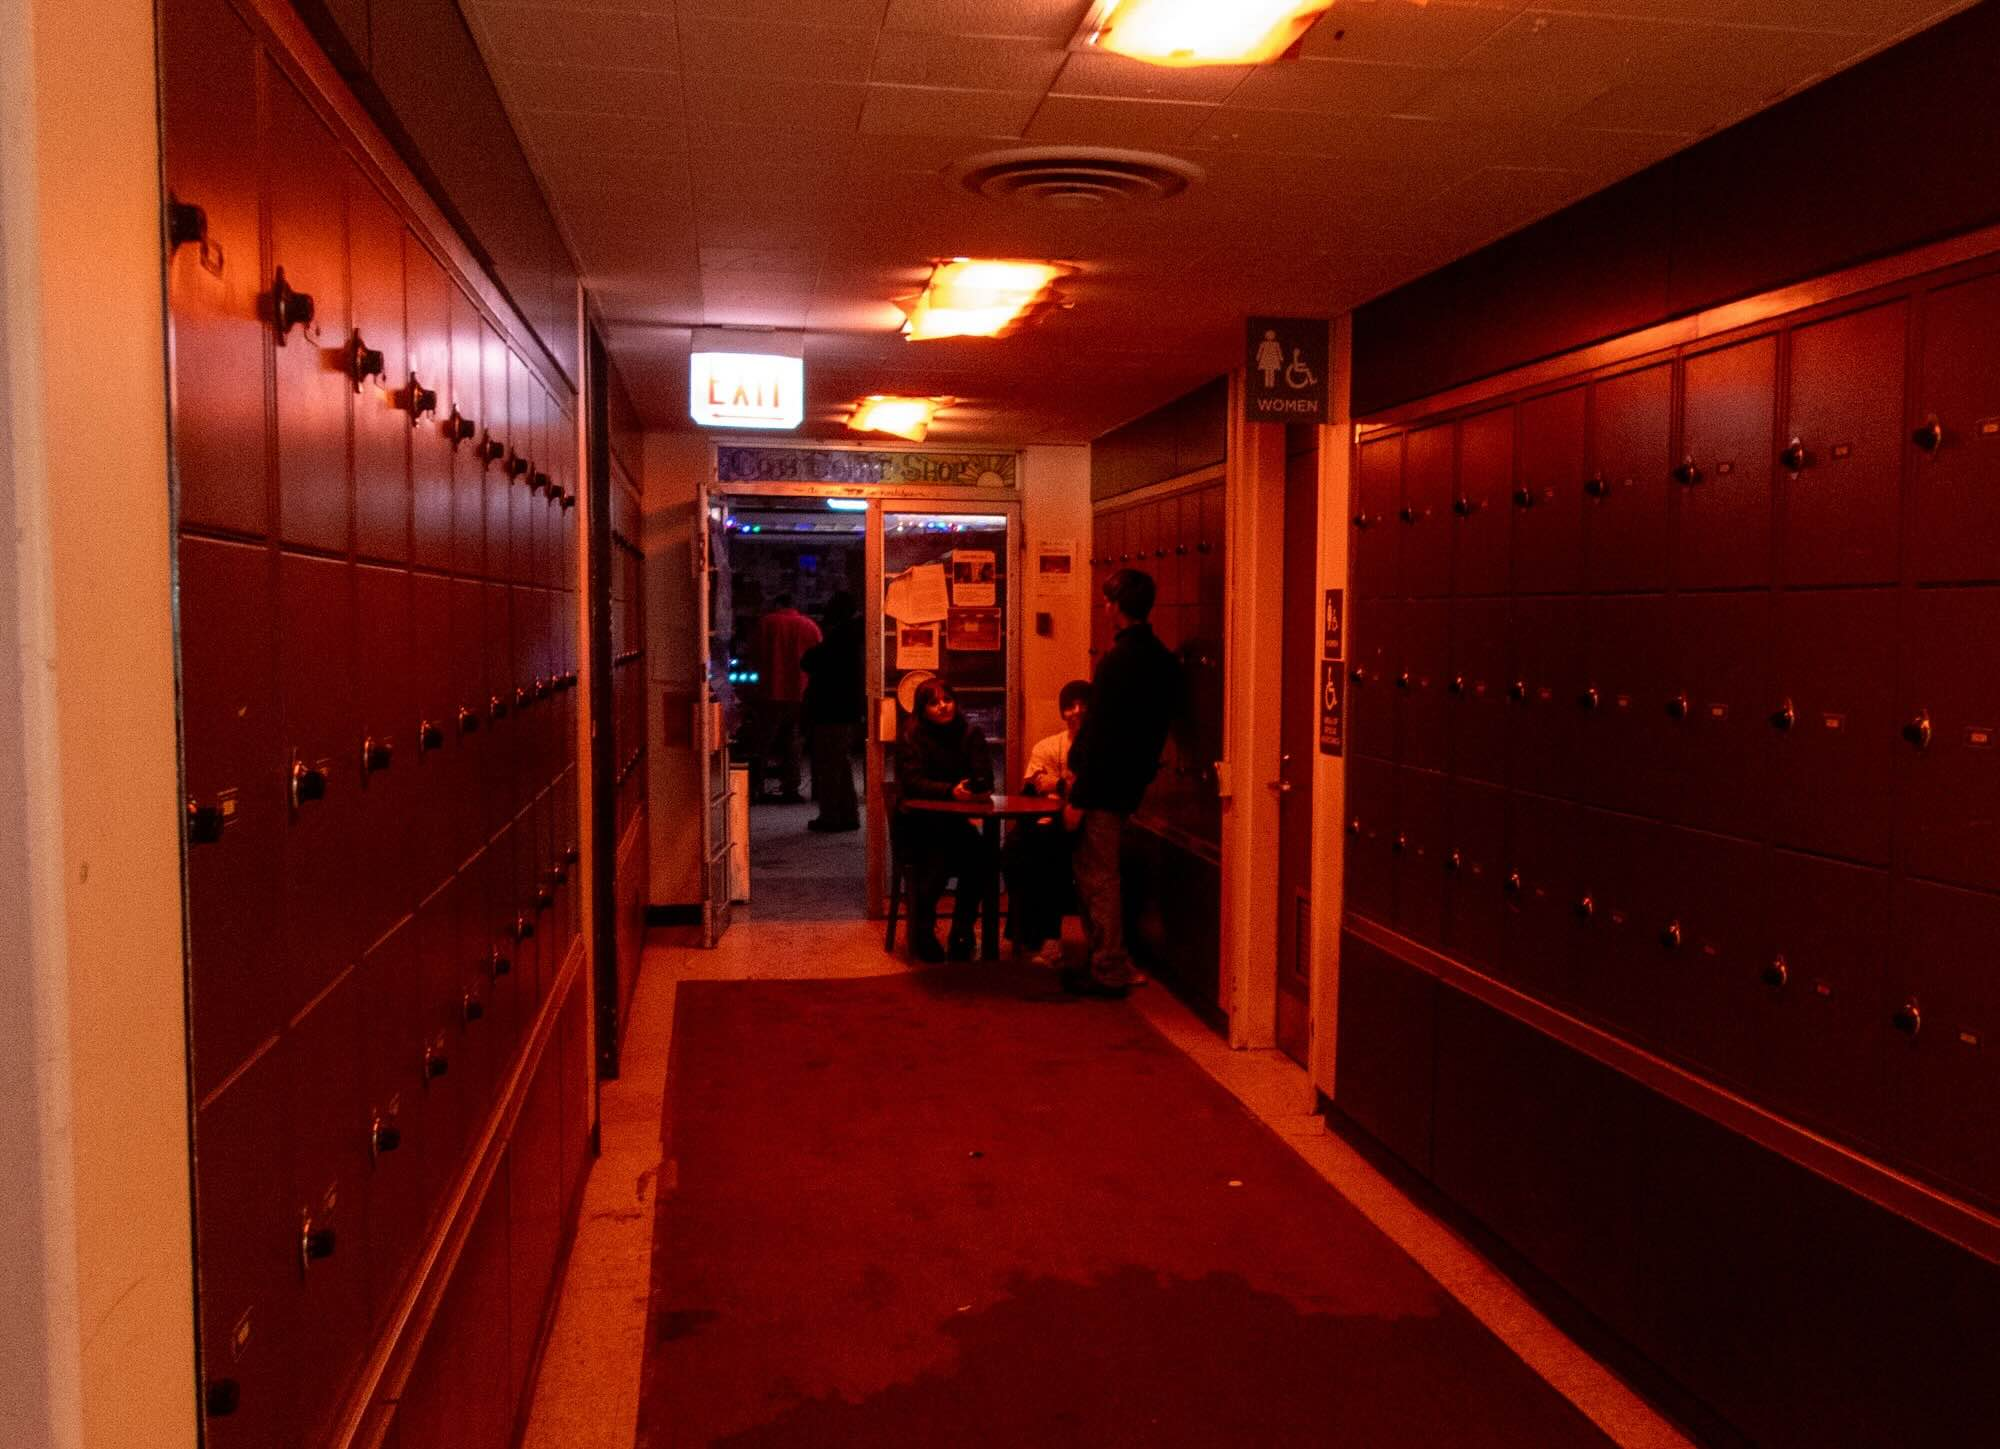
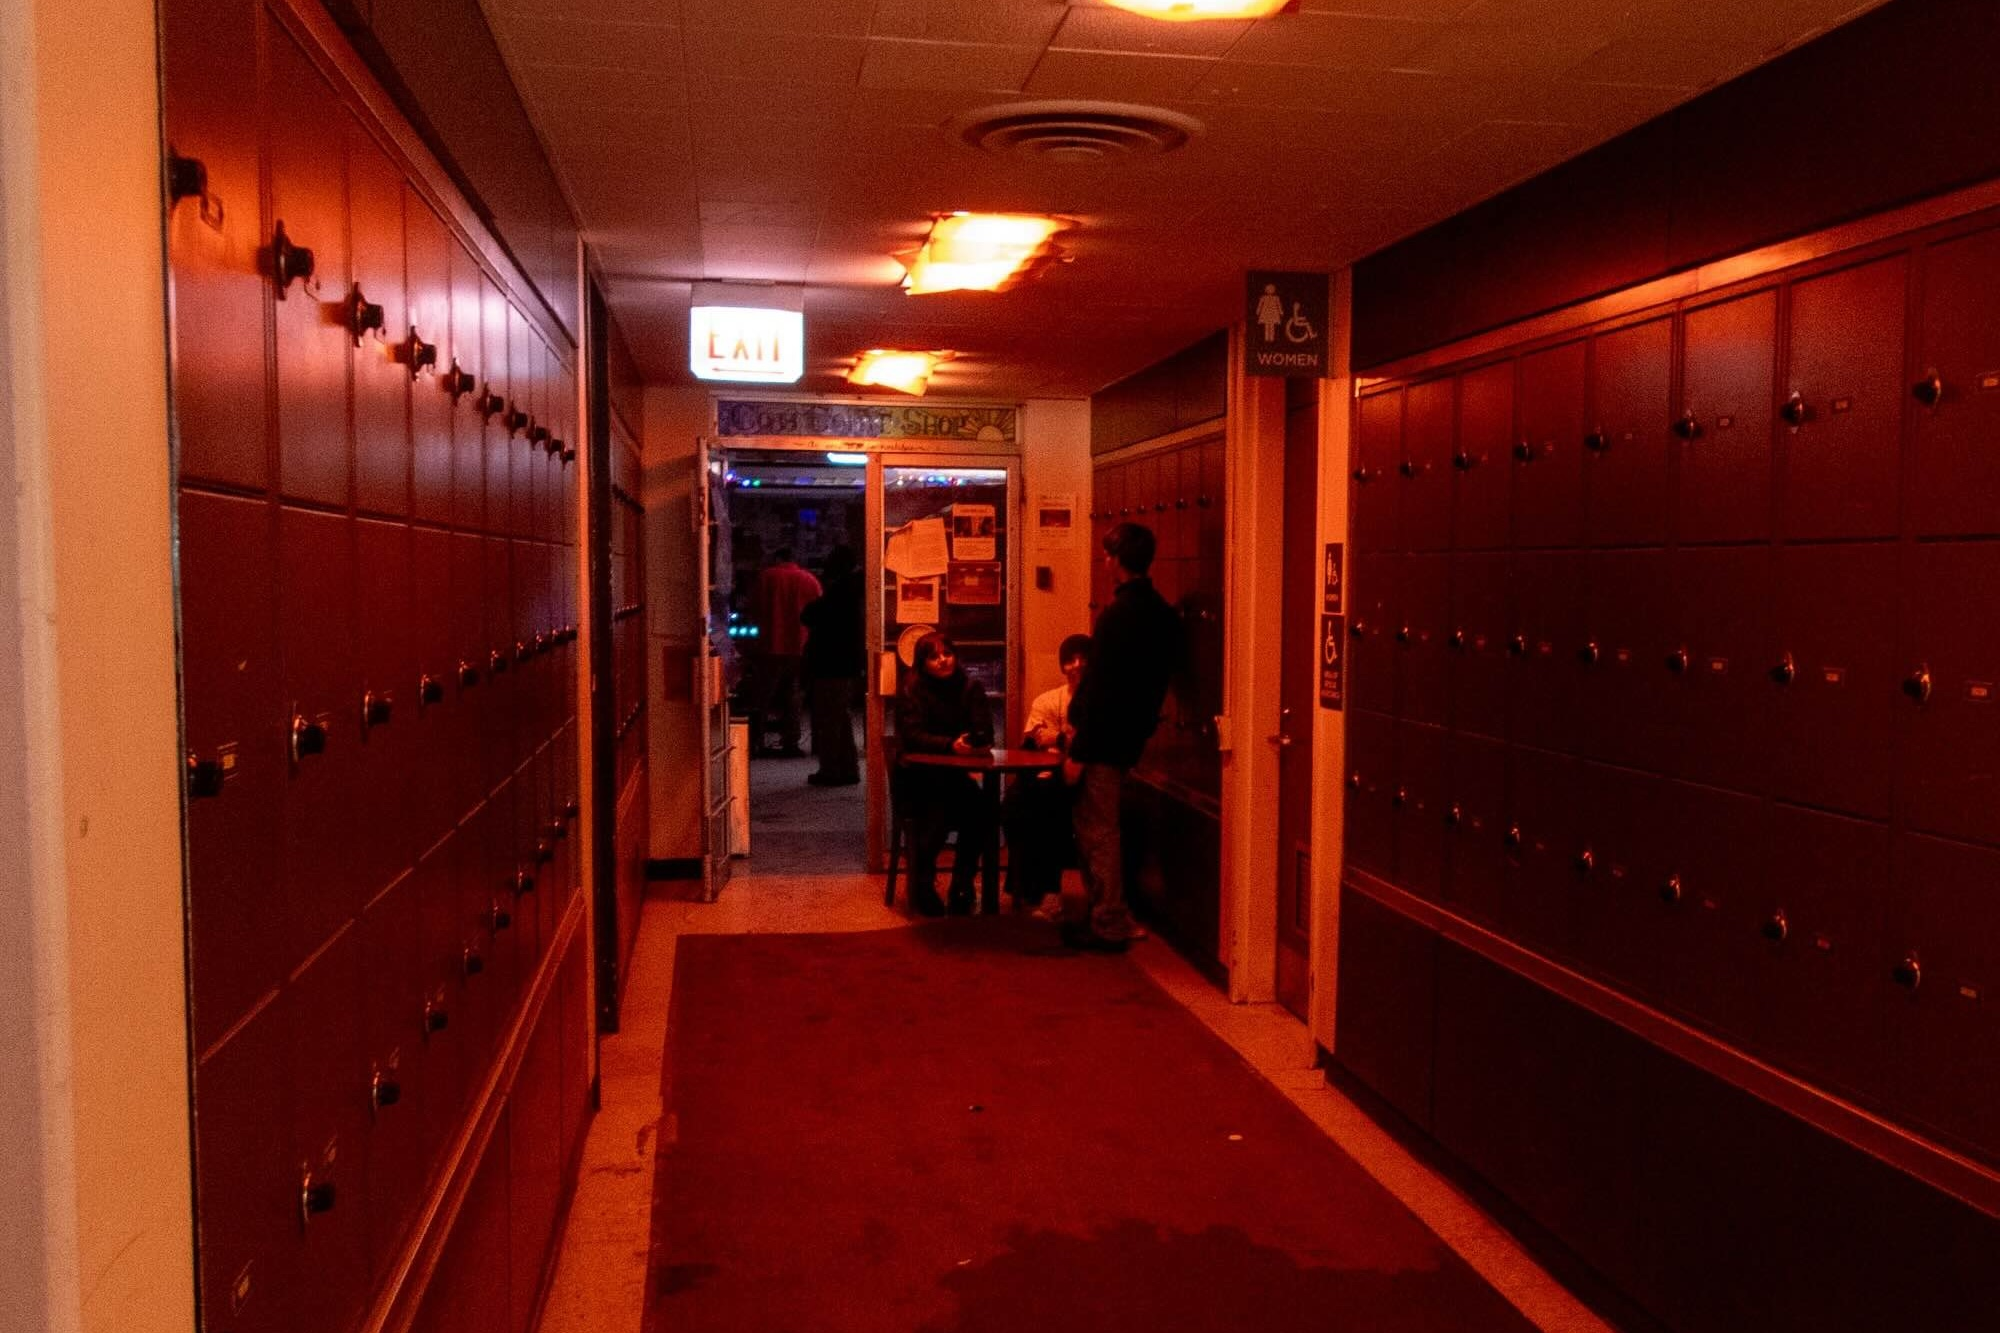
photo resize and small updates

diff --git a/public/content.js b/public/content.js
@@ -1,5 +1,5 @@
 export const headline =
-    'Basement Beats: Battle of the DJs Takes Over Cobb Café';
+    'Basement Beats:<br />Battle of the DJs Takes Over Cobb Café';
 export const subhead =
     'Five DJs transformed the coffee shop into a late-night rave hosted by the Major Activities Board. Interactive.';
 export const byline = [
@@ -72,11 +72,11 @@ const s6 = [
     '“It went by so fucking fast. I felt like I was playing for five minutes that I got a five-minute warning. I was like, ‘Oh, bro, fuck.’ So I was like, ‘Whatever, whatever, you gotta roll with it.’”',
     'Onabanjo’s set introduced unexpected textures and unconventional transitions, leaning into experimentation. Individual sounds stood out, sometimes strikingly so, though the shifts between them were abrupt. The result was less about building sustained tension and more about exploration, a reminder that the Battle of the DJs is as much a learning space as it is a competition.',
     'Anton Balyuk nearly skipped his economics problem set to submit his mixing audition. “It came in very close. It ended at 5:59,” he said, laughing before his set. He closed out the evening with a sound rooted in the Eastern European club scene. The rhythms were sharper and more percussive, driving kicks and tightly wound builds that shifted the room’s energy into something harder and more kinetic.',
-    'As the clock pushed toward one, the crowd gradually thinned.'
 ]
 
 export const p7 = [
-    'Winter jackets resurfaced and attendees slipped back into the falling snow. The event proved a success and a clear response to students’ emerging need for a space like this that moves beyond casual socializing. At its core, the Battle of the DJs was not about winning. It was about learning how to stay with the music, with uncertainty, with one another. As MAB crew member Kevin McDermott put it, the event is a place “let loose and be yourself.” But what that meant was more radical than it sounded. In the press of bodies and the repetition of bass, dancers ignored social standards, stopped managing appearances, and let rhythm dictate the body. At one point, the basement seemed to dissolve—bodies, sound, the classrooms above, and the century-old Gothic building’s history blurring together—leaving one with the sensation of having briefly stepped outside of oneself, carried instead by a shared pulse.'
+    'Winter jackets resurfaced and attendees slipped back into the falling snow. The event proved a success and a clear response to students’ emerging need for a space like this that moves beyond casual socializing. At its core, the Battle of the DJs was not about winning. It was about learning how to stay with the music, with uncertainty, with one another. As MAB crew member Kevin McDermott put it, the event is a place “let loose and be yourself.” But what that meant was more radical than it sounded. In the press of bodies and the repetition of bass, dancers ignored social standards, stopped managing appearances, and let rhythm dictate the body. At one point, the basement seemed to dissolve—bodies, sound, the classrooms above, and the century-old Gothic building’s history blurring together—leaving one with the sensation of having briefly stepped outside of oneself, carried instead by a shared pulse.',
+    'As the clock pushed toward one, the crowd gradually thinned.'
 ]
 
 const i1 = [
@@ -114,7 +114,6 @@ const i6 = [
     ["nathan3.jpg", "Quiroa on the DJ deck. <a href='https://chicagomaroon.com/staff_name/nolan-shaffer/'>Nolan Shaffer</a>.", 15, 15],
     ["onabanjo.jpg", "Tumi Onabanjo on the DJ deck. Courtesy of Taylor Pate.", 16, 16], 
     ["anton.jpg", "Anton Balyuk on the DJ deck. Courtesy of Taylor Pate.", 17, 17],
-    ["gate.jpg", "The gate to the party. <a href='https://chicagomaroon.com/staff_name/nolan-shaffer/'>Nolan Shaffer</a>.", 18, 18],
 ];
 
 export const sections = [

diff --git a/src/components/ArticleContent.jsx b/src/components/ArticleContent.jsx
@@ -79,12 +79,17 @@ export default function ArticleContent({ windowHeight, windowWidth }) {
             <div className="w-[100dvw] mx-auto py-10 md:py-10 flex flex-col items-center">
                 {p7.map((p, index) => (
                     <p
-                        className="mb-[20px] px-[2%] md:px-[20%] z-[20] content"
+                        className="px-[2%] md:px-[20%] z-[20] content"
                         key={index}
                         dangerouslySetInnerHTML={{ __html: p }}
                     />
                 ))}
             </div>
+            <img src='gate.jpg' alt='The entrance of Cobb Café'/>
+            <p className="text-right mr-3 md:mr-5 text-sm mb-5">
+            The gate to the party.{' '}
+            <a href='https://chicagomaroon.com/staff_name/nolan-shaffer/'>Nolan Shaffer</a>.
+            </p>
         </div>
     );
 }

diff --git a/src/components/Interactives.jsx b/src/components/Interactives.jsx
@@ -5,10 +5,10 @@ import { Scrollama, Step } from 'react-scrollama';
 
 const ScrollBar = ({ scrollYProgress }) => {
     return (
-        <div className="absolute left-0 right-0 z-10 top-[17px] lg:top-0 flex justify-center">
-            <div className="relative w-full max-w-xl h-[3px]
-            rounded-full bg-gray-500 overflow-hidden
-            lg:max-w-none lg:h-[5px]">
+        <div className="absolute left-0 right-0 z-10 top-0 flex justify-center">
+            <div className="relative w-full max-w-xl h-[5px]
+             bg-gray-500 overflow-hidden
+            lg:max-w-none lg:h-[8px]">
                 <motion.div
                     className="absolute inset-0 rounded-full bg-[#800000] origin-left"
                     style={{ scaleX: scrollYProgress, transformOrigin: "left" }}

diff --git a/src/components/Header.jsx b/src/components/Header.jsx
@@ -29,7 +29,7 @@ const Headline = ({ windowWidth }) => {
             className="w-10/12 md:w-1/2 mx-auto absolute"
             style={{
                 left: '50%',
-                top: windowWidth < 640 ? '20%' : '33%',
+                top: windowWidth < 640 ? '30%' : '33%',
                 transform: 'translateX(-50%)'
             }}
         >
@@ -66,7 +66,7 @@ const Byline = ({ windowWidth }) => {
     return (
         <div
             className="px-5 mx-auto absolute text-[white]
-            bg-[#0D1215]/[0.5] rounded-lg w-[60dvw] md:w-auto"
+            bg-[#0D1215]/[0.5] rounded-lg w-[70dvw] md:w-auto"
             style={{
                 left: '50%',
                 bottom: windowWidth < 640 ? '17%' : '20%',
